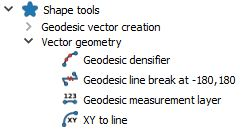
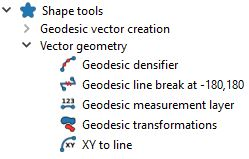
Added geodesic transofmations tool

Changed region(s): [[0.0, 0.0, 1.0, 0.9771]]

diff --git a/geodesicTransformation.py b/geodesicTransformation.py
@@ -1,0 +1,187 @@
+import os
+import math
+from geographiclib.geodesic import Geodesic
+
+from qgis.core import (QgsUnitTypes, QgsVectorLayer,
+    QgsPointXY, QgsPoint, QgsFeature, QgsFields, QgsField, QgsGeometry, 
+    QgsProject, QgsWkbTypes, QgsCoordinateTransform, QgsPalLayerSettings,
+    QgsVectorLayerSimpleLabeling)
+    
+from qgis.core import (QgsProcessing,
+    QgsFeatureSink,
+    QgsProcessingAlgorithm,
+    QgsProcessingParameterNumber,
+    QgsProcessingParameterEnum,
+    QgsProcessingParameterFeatureSource,
+    QgsProcessingParameterFeatureSink)
+
+from qgis.PyQt.QtGui import QIcon
+from qgis.PyQt.QtCore import QUrl, QVariant
+
+from .settings import epsg4326, geod, settings
+from .utils import tr, conversionToMeters, DISTANCE_LABELS
+
+class GeodesicTransformationsAlgorithm(QgsProcessingAlgorithm):
+    """
+    Algorithm to transform geometry shapes.
+    """
+
+    PrmInputLayer = 'InputLayer'
+    PrmOutputLayer = 'OutputLayer'
+    PrmTransformRotation = 'TransformRotation'
+    PrmTransformScale = 'TransformScale'
+    PrmTransformAzimuth = 'TransformAzimuth'
+    PrmTransformDistance = 'TransformDistance'
+    PrmTransformUnits = 'TransformUnits'
+
+    def initAlgorithm(self, config):
+        self.addParameter(
+            QgsProcessingParameterFeatureSource(
+                self.PrmInputLayer,
+                tr('Input vector layer'),
+                [QgsProcessing.TypeVectorAnyGeometry ])
+        )
+        self.addParameter(
+            QgsProcessingParameterNumber(
+                self.PrmTransformRotation,
+                tr('Rotation angle about the centroid'),
+                QgsProcessingParameterNumber.Double,
+                defaultValue=0,
+                optional=True)
+            )
+        self.addParameter(
+            QgsProcessingParameterNumber(
+                self.PrmTransformScale,
+                tr('Scale factor about the centroid'),
+                QgsProcessingParameterNumber.Double,
+                defaultValue=1,
+                optional=True)
+            )
+        self.addParameter(
+            QgsProcessingParameterNumber(
+                self.PrmTransformDistance,
+                tr('Translation distance'),
+                QgsProcessingParameterNumber.Double,
+                defaultValue=0,
+                optional=True)
+            )
+        self.addParameter(
+            QgsProcessingParameterNumber(
+                self.PrmTransformAzimuth,
+                tr('Translation azimuth'),
+                QgsProcessingParameterNumber.Double,
+                defaultValue=0,
+                optional=True)
+            )
+        self.addParameter(
+            QgsProcessingParameterEnum(
+                self.PrmTransformUnits,
+                tr('Translation distance units'),
+                options=DISTANCE_LABELS,
+                defaultValue=0,
+                optional=False)
+        )
+        self.addParameter(
+            QgsProcessingParameterFeatureSink(
+                self.PrmOutputLayer,
+                tr('Output layer'))
+            )
+    
+    def processAlgorithm(self, parameters, context, feedback):
+        source = self.parameterAsSource(parameters, self.PrmInputLayer, context)
+        angle = self.parameterAsDouble(parameters, self.PrmTransformRotation, context)
+        scale = self.parameterAsDouble(parameters, self.PrmTransformScale, context)
+        azimuth = self.parameterAsDouble(parameters, self.PrmTransformAzimuth, context)
+        distance = self.parameterAsDouble(parameters, self.PrmTransformDistance, context)
+        units = self.parameterAsInt(parameters, self.PrmTransformUnits, context)
+        
+        to_meters = conversionToMeters(units)
+        distance = distance * to_meters
+        src_crs = source.sourceCrs()
+        wkbtype = source.wkbType()
+        
+            
+        (sink, dest_id) = self.parameterAsSink(parameters,
+            self.PrmOutputLayer, context, source.fields(), wkbtype, src_crs)
+                
+        geom_to_4326 = QgsCoordinateTransform(src_crs, epsg4326, QgsProject.instance())
+        to_sink_crs = QgsCoordinateTransform(epsg4326, src_crs, QgsProject.instance())
+        
+        geomtype = QgsWkbTypes.geometryType(wkbtype)
+            
+        
+        featureCount = source.featureCount()
+        total = 100.0 / featureCount if featureCount else 0
+        
+        iterator = source.getFeatures()
+        for cnt, feature in enumerate(iterator):
+            if feedback.isCanceled():
+                break
+            geom = feature.geometry()
+            # Find the centroid of the vector shape. We will resize everything based on this
+            centroid = geom.centroid().asPoint()
+            centroid = geom_to_4326.transform(centroid.x(), centroid.y())
+            cy = centroid.y()
+            cx = centroid.x()
+            if distance != 0:
+                g = geod.Direct(cy, cx, azimuth, distance, Geodesic.LATITUDE | Geodesic.LONGITUDE)
+                new_centroid = QgsPoint(g['lon2'], g['lat2'])
+            else:
+                new_centroid = centroid
+            
+            # Find the x & y coordinates of the new centroid
+            ncy = new_centroid.y()
+            ncx = new_centroid.x()
+            
+            vertices = geom.vertices()
+            for vcnt, vertex in enumerate(vertices):
+                v = geom_to_4326.transform(vertex.x(), vertex.y())
+                l = geod.Inverse(cy, cx, v.y(), v.x())
+                vdist = l['s12']
+                vazi = l['azi1']
+                if scale != 1:
+                    vdist = vdist * scale
+                if angle != 0:
+                    vazi += angle
+                g = geod.Direct(ncy, ncx, vazi, vdist, Geodesic.LATITUDE | Geodesic.LONGITUDE)
+                new_vertex = to_sink_crs.transform(g['lon2'], g['lat2'])
+                geom.moveVertex(new_vertex.x(), new_vertex.y(), vcnt)
+            feature.setGeometry(geom)
+            sink.addFeature(feature)
+                    
+            if cnt % 100 == 0:
+                feedback.setProgress(int(cnt * total))
+                
+        return {self.PrmOutputLayer: dest_id}
+        
+    def name(self):
+        return 'geodesictransformations'
+
+    def icon(self):
+        return QIcon(os.path.join(os.path.dirname(__file__),'images/transformShape.png'))
+    
+    def displayName(self):
+        return tr('Geodesic transformations')
+    
+    def group(self):
+        return tr('Vector geometry')
+        
+    def groupId(self):
+        return 'vectorgeometry'
+        
+    def helpUrl(self):
+        file = os.path.dirname(__file__)+'/index.html'
+        if not os.path.exists(file):
+            return ''
+        return QUrl.fromLocalFile(file).toString(QUrl.FullyEncoded)
+    
+    def shortHelpString(self):
+        file = os.path.dirname(__file__)+'/doc/GeodesicTransformationsAlgorithm.help'
+        if not os.path.exists(file):
+            return ''
+        with open(file) as helpf:
+            help=helpf.read()
+        return help
+        
+    def createInstance(self):
+        return GeodesicTransformationsAlgorithm()

diff --git a/shapeTools.py b/shapeTools.py
@@ -86,6 +86,14 @@ class ShapeTools(object):
         self.iface.addPluginToVectorMenu('Shape Tools', self.measureLayerAction)
         self.toolbar.addAction(self.measureLayerAction)
         
+        # Initialize Geodesic transformation tool
+        icon = QIcon(os.path.dirname(__file__) + '/images/transformShape.png')
+        self.transformAction = QAction(icon, tr('Geodesic transformations'), self.iface.mainWindow())
+        self.transformAction.setObjectName('stGeodesicTransformations')        
+        self.transformAction.triggered.connect(self.transformTool)
+        self.iface.addPluginToVectorMenu('Shape Tools', self.transformAction)
+        self.toolbar.addAction(self.transformAction)
+        
         # Initialize the Azimuth Distance Digitize function
         icon = QIcon(os.path.dirname(__file__) + '/images/dazdigitize.png')
         self.digitizeAction = QAction(icon, tr('Azimuth distance digitizer'), self.iface.mainWindow())
@@ -150,6 +158,7 @@ class ShapeTools(object):
         self.iface.removePluginVectorMenu('Shape Tools', self.geodesicLineBreakAction)
         self.iface.removePluginVectorMenu('Shape Tools', self.measureAction)
         self.iface.removePluginVectorMenu('Shape Tools', self.measureLayerAction)
+        self.iface.removePluginVectorMenu('Shape Tools', self.transformAction)
         self.iface.removePluginVectorMenu('Shape Tools', self.digitizeAction)
         self.iface.removePluginVectorMenu('Shape Tools', self.lineDigitizeAction)
         self.iface.removePluginVectorMenu('Shape Tools', self.settingsAction)
@@ -161,6 +170,7 @@ class ShapeTools(object):
         self.iface.removeToolBarIcon(self.geodesicLineBreakAction)
         self.iface.removeToolBarIcon(self.measureAction)
         self.iface.removeToolBarIcon(self.measureLayerAction)
+        self.iface.removeToolBarIcon(self.transformAction)
         self.iface.removeToolBarIcon(self.digitizeAction)
         self.iface.removeToolBarIcon(self.lineDigitizeAction)
         self.azDigitizerTool = None
@@ -198,6 +208,9 @@ class ShapeTools(object):
         
     def measureLayerTool(self):
         results = processing.execAlgorithmDialog('shapetools:measurelayer', {})
+        
+    def transformTool(self):
+        results = processing.execAlgorithmDialog('shapetools:geodesictransformations', {})
         
     def settings(self):
         if self.settingsDialog is None:

diff --git a/provider.py b/provider.py
@@ -3,6 +3,7 @@ from qgis.core import QgsProcessingProvider
 from qgis.PyQt.QtGui import QIcon
 from .geodesicDensify import GeodesicDensifyAlgorithm
 from .geodesicLayerMeasure import GeodesicLayerMeasureAlgorithm
+from .geodesicTransformation import GeodesicTransformationsAlgorithm
 from .xyToLine import XYToLineAlgorithm
 from .createDonut import CreateDonutAlgorithm
 from .createEllipse import CreateEllipseAlgorithm
@@ -27,6 +28,7 @@ class ShapeToolsProvider(QgsProcessingProvider):
         self.addAlgorithm(GeodesicDensifyAlgorithm())
         self.addAlgorithm(IdlBreakLineAlgorithm())
         self.addAlgorithm(GeodesicLayerMeasureAlgorithm())
+        self.addAlgorithm(GeodesicTransformationsAlgorithm())
         self.addAlgorithm(XYToLineAlgorithm())
         self.addAlgorithm(CreateEllipseAlgorithm())
         self.addAlgorithm(CreateDonutAlgorithm())

diff --git a/readme.md b/readme.md
@@ -6,6 +6,7 @@
 * ![XY to Line](images/xyline.png) **XY to Line** uses pairs of coordinates from each layer's records to create geodesic lines in between. Geodesic lines represent the shortest path along the Earth's surface between two points. The input can be a point vector layer or a table layer that contains pairs of coordinates.
 * ![Geodesic line break](images/idlbreak.png) **Geodesic line break at -180,180** breaks lines at the International Date Line at -180,180 degrees longitude for a more pleasing visual look.
 * ![Geodesic densifier](images/geodesicDensifier.png) **Geodesic densifier** densifies a line or polygon vector layer by adding geodesic points in between each line segment whenever the distance between vertices exceeds a certain threshold. This creates a geodesic path that gives it a nice smooth curved appearance. If the vector layer is a line, it can also draw a geodesic line just between the beginning and ending points.
+* ![Geodesic transfomations tool](images/transformShape.png) **Geodesic transformations** can geodesically scale, rotate, and translate points, lines and polygons. It retains the its shapes relative dimensions no matter what the projection is.
 * ![Geodesic measure tool](images/measure.png) **Geodesic measure tool** provides geodesic line measuring, similar to that implemented in Google Earth.
 * ![Geodesic measurement layer](images/measureLine.png) **Geodesic measurement layer** converts a polygon or line layer a new layer with all geometries measured and labeled.
 * ![Azimuth, distance digitizer](images/dazdigitize.png) **Azimuth, distance digitizer** creates a new point at a certain azimuth/bearing and distance or creates a geodesic line from the point clicked to a point in the azimuth direction located at a distance.
@@ -17,6 +18,7 @@
 * [XY to Line](#xy-to-line)
 * [Geodesic Line Break](#geodesic-line-break)
 * [Geodesic Densifier](#geodesic-densifier)
+* [Geodesic Transformations](#geodesic-transformations)
 * [Geodesic Measure Tool](#geodesic-measure)
 * [Geodesic Measurement Layer](#geodesic-measure-layer)
 * [Azimuth, Distance Digitizer](#azimuth-distance)
@@ -151,6 +153,21 @@ The following shows the before and after results of running this function on a p
 This function can also be accessed from the **Processing Toolbox**.
 
 <div style="text-align:center"><img src="doc/processing.jpg" alt="Processing Toolbox"></div>
+
+## <a name="geodesic-transfomations"></a> ![Geodesic Transformations](images/transformShape.png) Geodesic Transformations Tool
+
+This tool provides the ability to geodesically transform a shape. It supports scaling, rotation and translation. The size and geometry of each shape will be retained regardless of the projection. 
+
+<div style="text-align:center"><img src="doc/geodesictransform.jpg" alt="Geodesic Transformations"></div>
+
+* **Input vector layer** - Select an existing point, line, or polygon vector layer.
+* **Selected features only** - Checking this box will cause the algorithm to only transform the selected features.
+* **Rotation angle about the centroid** - Rotate the feature about its centroid. A positive angle rotates in a clockwise direction.
+* **Scale factor about the centroid** - Scale the shape about its centroid. A scale factor of 1 retains its same size.
+* **Translation distance** - Distance the shape will be moved along a geodesic path.
+* **Translation azimuth** - Azimuth or direction the shape will be moved along a geodesic path.
+* **Translation distance units** - Units of distance the shape will be move.
+* **Output layer** - The output layer that will be created in QGIS.
 
 ## <a name="geodesic-measure"></a> ![Geodesic Measure Tool](images/measure.png) Geodesic Measure Tool
 
